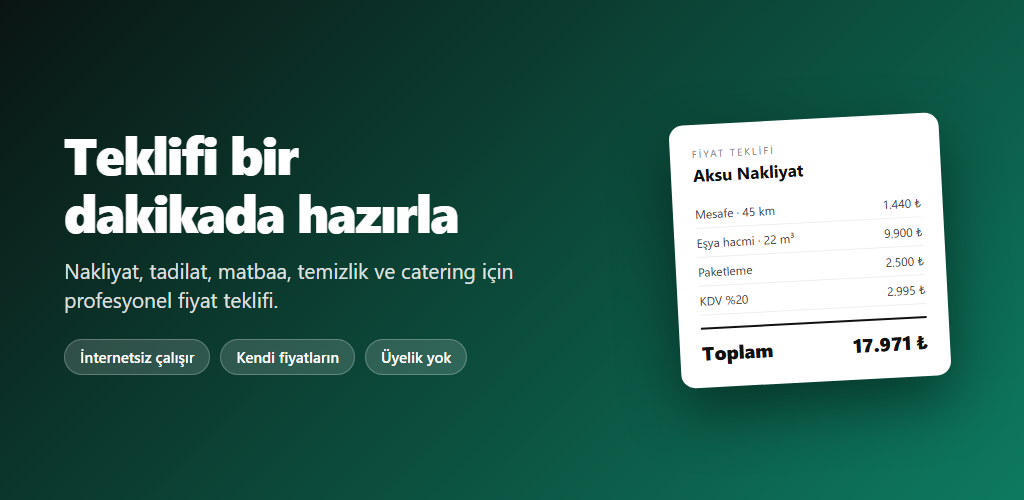
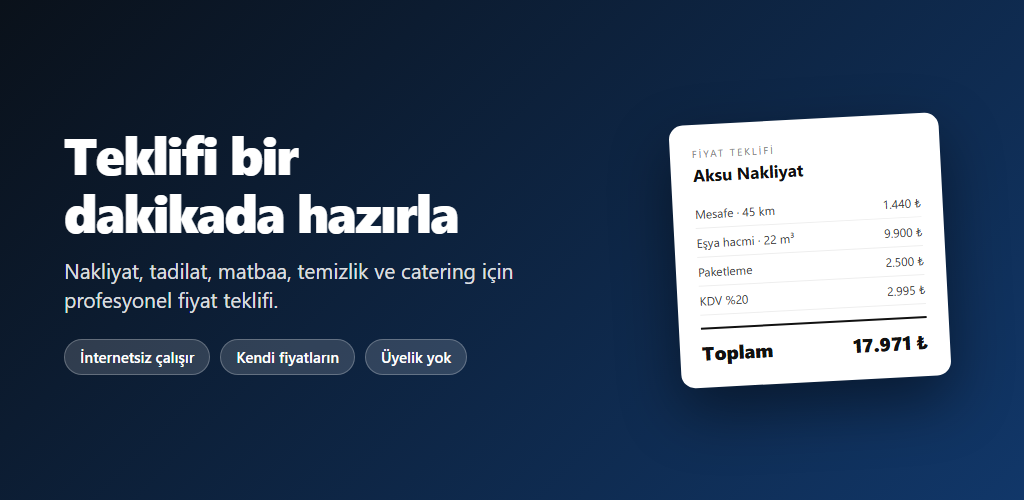
Marka rengi: olculmus kategori normuna gecis (#113769)
113 rakip ikonu Google Play'den cekilip HEX bazinda olculdu:
  mavi %42 (48) · teal %17 (19) · kirmizi %15 (17) · turuncu %12 (13)
  205-235 bandinda 35 uygulama - yigilma burada

Onceki renk (#0d7a5f, ton 165) normdan 50 derece sapiyordu. Labrecque &
Milne (2013): yuksek ilgilenimli, hata affetmeyen kategorilerde (B2B
finans/teklif/muhasebe) kategori renk normuna baglilik marka
performansina DOGRUDAN fayda sagliyor. Bu kategori o tanima giriyor.

Yeni renk ton 214 (norm merkezi 215) ama yigindan ayrisiyor:
  yigin ortalamasi  %34 parlaklik / %91 doygunluk
  bizimki           %24 parlaklik / %72 doygunluk
Koyu = deger algisi. Dusuk doygunluk = karanlik modda halation yok.

Kontrastlar (hesaplandi): metin 15.79:1 · soluk 6.19:1 · dugme 11.84:1
Hepsi WCAG AAA.

DUZELTME: onceki renk gerekcesiz secilmisti. Simdi arastirmaya
(arastirma/renk-arastirmasi.txt, 33 kaynak) ve olcume dayaniyor.

Claude-Session: https://claude.ai/code/session_018Fw48mqV4uZVUpKn8kGiWb

diff --git a/index.html b/index.html
@@ -3,29 +3,37 @@
 <head>
 <meta charset="utf-8">
 <meta name="viewport" content="width=device-width,initial-scale=1,viewport-fit=cover">
-<meta name="theme-color" content="#0d7a5f">
+<meta name="theme-color" content="#113769">
 <title>Teklif Ustası</title>
 <link rel="manifest" href="manifest.json">
 <link rel="icon" href="icon-192.png">
 <style>
 :root{
-  /* Marka paleti — ana renk #0d7a5f'ten türetildi, kontrastlar WCAG AA
-     (metin 16.9:1, soluk 4.66:1, bağlantı 5.01:1, düğme metni 5.29:1) */
-  --bg:#f7f9f8; --kart:#fff; --metin:#0c1a16; --soluk:#397c69;
-  --cizgi:#dae3de; --vurgu:#0d7a5f; --vurgu-metin:#fff;
-  --yesil:#16a34a; --kirmizi:#b42318; --girdi:#fff;
+  /* Marka paleti — ton 214°, kategori normunun merkezi (215°).
+     Karar gerekcesi: Labrecque & Milne (2013) — yuksek ilgilenimli,
+     hata affetmeyen kategorilerde (B2B finans/teklif) kategori renk
+     normuna baglilik marka performansina fayda sagliyor.
+     113 rakip ikonu olculdu: mavi %42 dominant, 205-235 bandinda 35 uygulama.
+     Ayrisma tondan degil doygunluk/parlakliktan: yigin ortalamasi
+     %34 parlaklik / %91 doygunluk; bizimki %24 / %72 — daha koyu ve
+     daha az doygun. Koyu = deger algisi (Asama 4), dusuk doygunluk =
+     karanlik modda halation yok (Asama 5).
+     Kontrastlar: metin 15.79:1 · soluk 6.19:1 · dugme metni 11.84:1 */
+  --bg:#f5f7f9; --kart:#fff; --metin:#151d28; --soluk:#495e79;
+  --cizgi:#dae0e7; --vurgu:#113769; --vurgu-metin:#fff;
+  --yesil:#15803d; --kirmizi:#b42318; --girdi:#fff;
 }
 @media (prefers-color-scheme:dark){
   :root:not([data-tema="acik"]){
-    --bg:#0a1512; --kart:#122621; --metin:#e9f2ef; --soluk:#8fbdae;
-    --cizgi:#1a3830; --vurgu:#16cda0; --vurgu-metin:#0a1512;
-    --yesil:#4ade80; --kirmizi:#f87171; --girdi:#0f1f1b;
+    --bg:#0a111a; --kart:#131d2b; --metin:#e6ecf5; --soluk:#94a9c4;
+    --cizgi:#1e2c3f; --vurgu:#699ed3; --vurgu-metin:#0a111a;
+    --yesil:#4ade80; --kirmizi:#f87171; --girdi:#0e1722;
   }
 }
 :root[data-tema="koyu"]{
-  --bg:#0a1512; --kart:#122621; --metin:#e9f2ef; --soluk:#8fbdae;
-  --cizgi:#1a3830; --vurgu:#16cda0; --vurgu-metin:#0a1512;
-  --yesil:#4ade80; --kirmizi:#f87171; --girdi:#0f1f1b;
+  --bg:#0a111a; --kart:#131d2b; --metin:#e6ecf5; --soluk:#94a9c4;
+  --cizgi:#1e2c3f; --vurgu:#699ed3; --vurgu-metin:#0a111a;
+  --yesil:#4ade80; --kirmizi:#f87171; --girdi:#0e1722;
 }
 *{box-sizing:border-box;-webkit-tap-highlight-color:transparent}
 body{margin:0;background:var(--bg);color:var(--metin);

diff --git a/sw.js b/sw.js
@@ -1,5 +1,5 @@
 // Service worker — uygulamanin internetsiz calismasini saglar.
-const ONBELLEK = "teklif-ustasi-v4";
+const ONBELLEK = "teklif-ustasi-v5";
 const DOSYALAR = ["./", "./index.html", "./app.js", "./sektorler.js",
                   "./manifest.json", "./icon-192.png", "./icon-512.png", "./icon-512-maskable.png"];
 
